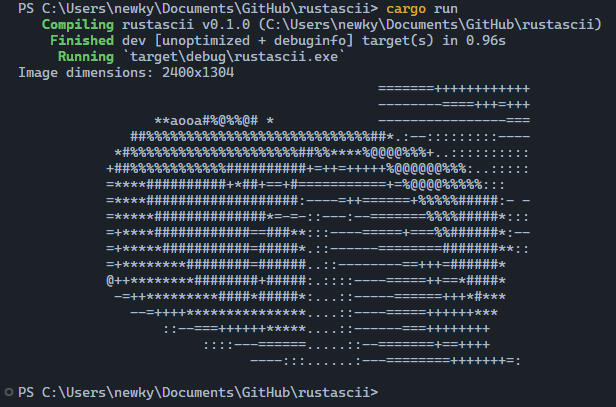
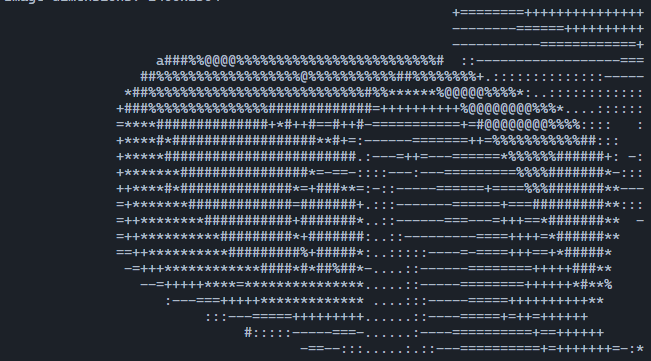
cli arguments

diff --git a/src/main.rs b/src/main.rs
@@ -1,10 +1,18 @@
+use image::imageops::FilterType;
 use image::{load_from_memory, DynamicImage, GenericImageView};
+use std::env;
 use std::fs::File;
 use std::io::{BufReader, Read};
 use std::path::Path;
 
 fn main() {
-    let image_path = Path::new("image.png");
+    let args: Vec<String> = env::args().collect();
+    let image_path = if args.len() > 1 {
+        Path::new(&args[1])
+    } else {
+        Path::new("image.png")
+    };
+
     let image_file = File::open(image_path).expect("Failed to open image file");
     let mut buf_reader = BufReader::new(image_file);
     let mut image_data = Vec::new();
@@ -14,16 +22,23 @@ fn main() {
 
     let image = load_from_memory(&image_data).expect("Failed to decode image");
     let (width, height) = image.dimensions();
+
     println!("Image dimensions: {}x{}", width, height);
 
-    let image = image.resize(64, 64, image::imageops::FilterType::Nearest);
+    let image = if args.len() > 2 {
+        let size = args[2].parse::<u32>().unwrap();
+        image.resize(size, size, FilterType::Nearest)
+    } else {
+        image.resize(64, 64, FilterType::Nearest)
+    };
+
     let ascii_art = convert_to_ascii(&image);
     println!("{}", ascii_art);
 }
 
 fn convert_to_ascii(image: &DynamicImage) -> String {
     let (width, height) = image.dimensions();
-    let mut ascii_art = String::new();
+    let mut ascii_art = String::new(); // ""
 
     for y in 0..height {
         // if odd skip row, to keep aspect ratio
@@ -35,13 +50,15 @@ fn convert_to_ascii(image: &DynamicImage) -> String {
 
         for x in 0..width {
             let pixel = image.get_pixel(x, y);
-            let luminance = (0.2126 * pixel[0] as f32
+            let luminance = (
+                  0.2126 * pixel[0] as f32
                 + 0.7152 * pixel[1] as f32
-                + 0.0722 * pixel[2] as f32) as u8;
+                + 0.0722 * pixel[2] as f32
+            ) as u8;
             let ascii_char = if pixel[3] == 0 {
                 ' '
             } else {
-                match luminance {
+                match luminance { // 0 - 256
                     0..=15 => ' ',
                     16..=31 => '.',
                     32..=47 => ':',

diff --git a/readme.md b/readme.md
@@ -2,14 +2,24 @@
 
 ## Usage
 
-put a image named `image.png` in same directory as the program and run
+Download the binary from [releases](https://github.com/KallelGaNewk/asciiart/releases) page and run it as follows:
+
 ```bash
-cargo run --release
+./asciiart <image_path> <size>
+
+# for example
+./asciiart image.png 64
+```
+and it will print the ASCII art to the terminal.
+
+## Building
+
+```bash
+cargo build --release
 ```
 
 ## Example
 
-
-<img src="image.png" width="256" height="auto"><br>
-⬇⬇⬇<br>
-<img src="example.png" width="256" height="auto">
+<img src="image.png" width="450" height="auto"><br>
+⬇⬇⬇ using size 80<br>
+<img src="example.png" width="450" height="auto">
